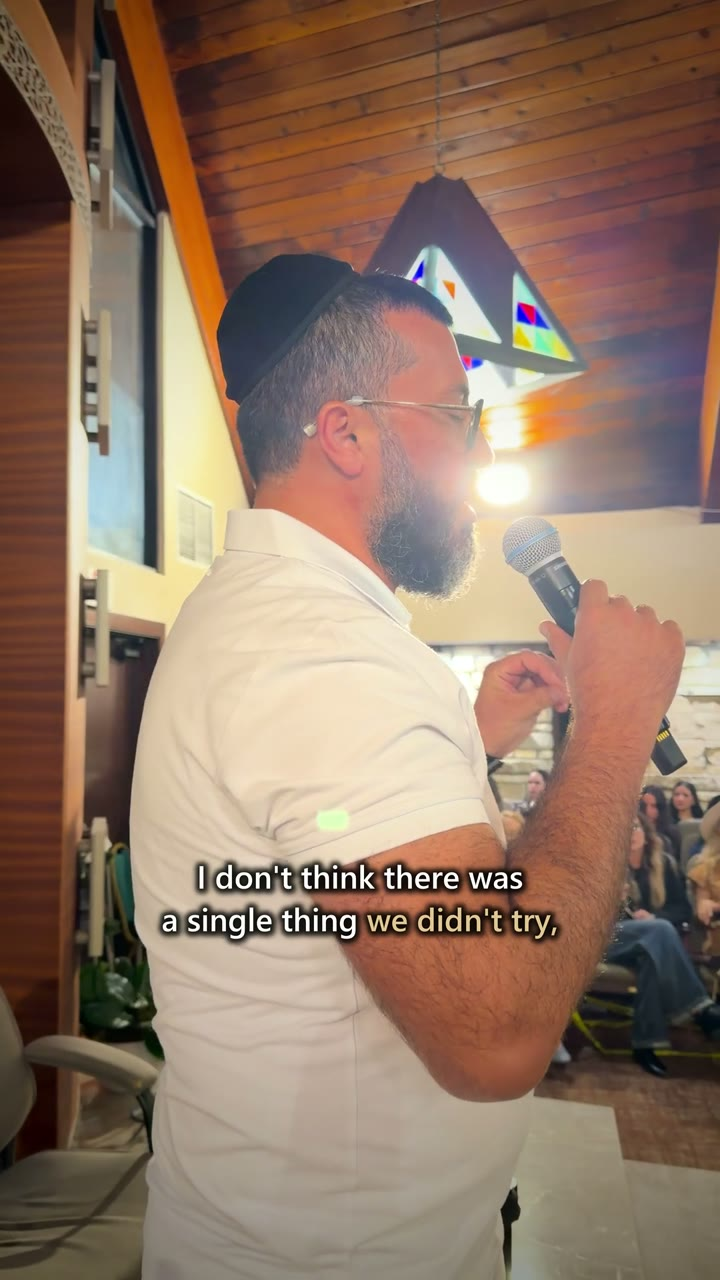
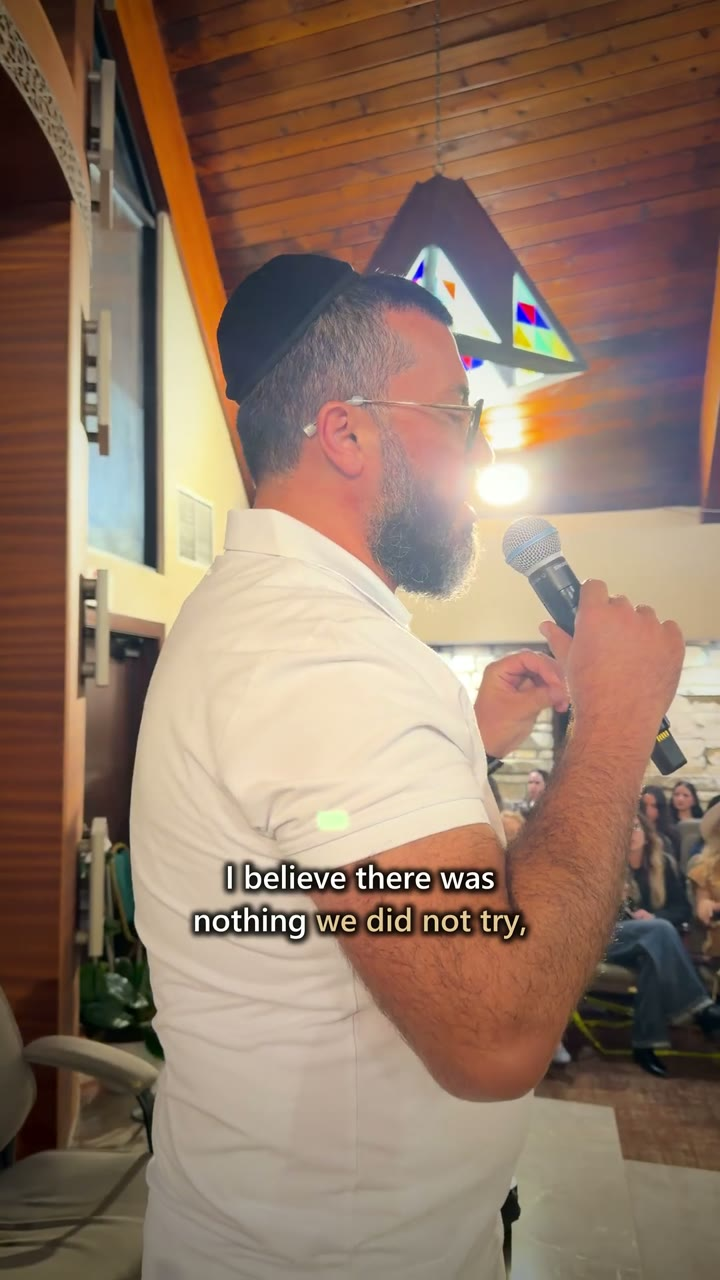
Add files via upload

Changed region(s): [[0.2139, 0.6562, 0.7944, 0.75]]

diff --git a/index.html b/index.html
@@ -29,6 +29,11 @@
   --on-argaman-soft:#efdfe5;
   --line-on-argaman:#b47a8e;
   --veil:rgba(255,255,255,.12);
+  --yt:#ff0000;
+  --fb:#0866ff;
+  --tt:#111111;
+  --wa:#25d366;
+  --tile-shadow:rgba(27,23,29,.14);
   --he-book:"Frank Ruhl Libre","David Libre","David","Times New Roman",serif;
   --he-note:"Miriam Libre","Frank Ruhl Libre","Arial Hebrew",Arial,sans-serif;
   --en-book:"EB Garamond","Frank Ruhl Libre","Iowan Old Style","Palatino Linotype",Palatino,Georgia,"Times New Roman",serif;
@@ -202,7 +207,7 @@ figcaption{padding-top:.65rem;text-align:center;text-wrap:balance}
 .colophon p[lang="he"]{font-family:var(--he-book);font-size:1.0625rem}
 
 /* Where the story was told: one quiet line at the head of the page, names only */
-.runhead .wrap{justify-content:space-between;align-items:baseline;flex-wrap:wrap;column-gap:1.25rem;row-gap:.25rem}
+.runhead .wrap{justify-content:flex-end;align-items:baseline;flex-wrap:wrap;column-gap:1.25rem;row-gap:.25rem}
 .seen{flex:1 1 16rem;min-width:0;display:flex;flex-wrap:wrap;align-items:baseline;gap:.1rem .9rem;color:var(--ink-soft);line-height:1.5}
 #he .seen{font-size:1rem}
 #en .seen{font-size:1.0625rem}
@@ -213,17 +218,35 @@ figcaption{padding-top:.65rem;text-align:center;text-wrap:balance}
 .sr{position:absolute;width:1px;height:1px;overflow:hidden;clip:rect(0 0 0 0);white-space:nowrap}
 .switch{flex:none}
 
-/* His channels, in the colophon after the invitation */
-.follow{padding-bottom:.25rem}
-.follow .label{color:var(--on-argaman-soft);margin-bottom:.85rem}
-.follow ul{display:flex;flex-wrap:wrap;justify-content:center;gap:.6rem .75rem}
-.follow li{min-width:0}
-.follow a{display:inline-flex;align-items:baseline;gap:.4rem;min-height:2.75rem;padding:.55rem .95rem;border:1px solid var(--line-on-argaman);color:var(--on-argaman);text-decoration:none;line-height:1.3}
-.follow a:hover{border-color:var(--on-argaman);background:var(--veil)}
-.f-net{font-weight:700}
-#en .f-net{font-weight:600}
-.f-name{color:var(--on-argaman-soft);font-size:.95em}
-.colophon hr.tick{border-color:var(--line-on-argaman);margin:1.4rem auto 1.1rem}
+/* בס״ד: always in the top right corner, in both languages, the way a letter or a sefer opens */
+.runhead .bsd-row{display:flex;justify-content:flex-end;padding-top:.55rem}
+#he .runhead .bsd-row{justify-content:flex-start}
+.bsd{text-align:right;color:var(--ink-soft);font-family:var(--he-book);font-size:1rem;font-weight:700;line-height:1;letter-spacing:.02em}
+.bsd-row + .wrap{padding-top:.2rem}
+
+/* His channels: four tiles, each with the network's own mark and colour, after the invitation */
+.follow-band{background:var(--paper)}
+.follow-band .wrap{padding-top:2.5rem;padding-bottom:2.75rem;text-align:center}
+.follow-band hr.dbl{max-width:42rem;margin:0 auto 1.6rem}
+.follow-band .label{margin-bottom:1.25rem}
+#he .follow-band .label{font-size:1.0625rem}
+#en .follow-band .label{font-size:.9375rem}
+.tiles{display:grid;grid-template-columns:repeat(2,minmax(0,1fr));gap:.75rem;max-width:42rem;margin-inline:auto}
+.tiles li{min-width:0;display:flex}
+.tile{flex:1;min-width:0;display:flex;flex-direction:column;align-items:center;gap:.4rem;padding:1.15rem .6rem 1.05rem;border:1px solid var(--rule);background:var(--paper);color:var(--ink);text-decoration:none;transition:transform .18s ease,box-shadow .18s ease,border-color .18s ease}
+.tile:hover{border-color:var(--argaman);box-shadow:0 10px 22px -12px var(--tile-shadow)}
+.ico{display:grid;place-items:center;width:3.6rem;height:3.6rem;border-radius:50%;margin-bottom:.2rem}
+.ico svg{display:block}
+.tile-youtube .ico{background:var(--yt)}
+.tile-facebook .ico{background:var(--fb)}
+.tile-tiktok .ico{background:var(--tt)}
+.tile-whatsapp .ico{background:var(--wa)}
+.f-net{font-weight:700;font-size:1.125rem;line-height:1.2}
+#en .f-net{font-weight:600;font-size:1.25rem}
+.f-name{color:var(--ink-soft);font-size:.95rem;line-height:1.3;overflow-wrap:anywhere}
+#en .f-name{font-size:1.0625rem}
+@media (min-width:40rem){ .tiles{grid-template-columns:repeat(4,minmax(0,1fr))} }
+@media (prefers-reduced-motion:no-preference){ .tile:hover{transform:translateY(-3px)} }
 
 @media (min-width:30rem){
   .shaar-body{padding:2.4rem 2rem 2.2rem}
@@ -276,8 +299,8 @@ figcaption{padding-top:.65rem;text-align:center;text-wrap:balance}
 <div id="en" lang="en" dir="ltr">
 
   <div class="runhead">
+    <div class="wrap bsd-row"><p class="bsd" lang="he" dir="rtl">בס״ד</p></div>
     <div class="wrap">
-      <p class="seen"><span class="label seen-label">As told on</span> <bdi class="seen-item">CBS News Miami</bdi><span class="sr"> · </span><bdi class="seen-item">Channel 14, Israel</bdi><span class="sr"> · </span><bdi class="seen-item">Channel 13, Israel</bdi><span class="sr"> · </span><bdi class="seen-item">Magen Avraham, Sunny Isles Beach</bdi></p>
       <a class="switch" href="#he" lang="he">עברית</a>
     </div>
   </div>
@@ -286,7 +309,7 @@ figcaption{padding-top:.65rem;text-align:center;text-wrap:balance}
     <div class="wrap spread spread-a">
       <div class="shaar">
         <div class="lintel">
-          <p class="motto">Mizmor l’todah. Shout for joy to Hashem, all the earth.</p>
+          <p class="motto">Mizmor l’todah, hari’u la’Hashem kol ha’aretz.</p>
           <p class="label ref">Tehillim 100:1</p>
         </div>
         <div class="shaar-body">
@@ -333,7 +356,7 @@ figcaption{padding-top:.65rem;text-align:center;text-wrap:balance}
     <div class="wrap spread spread-c">
       <blockquote class="gemara">
         <hr class="dbl" aria-hidden="true">
-        <p>Even if a sharp sword rests upon a person’s neck, he should not prevent himself from praying for mercy.</p>
+        <p>Afilu cherev chadah munachat al tzavaro shel adam, al yimna atzmo min harachamim.</p>
         <footer><cite class="label ref">Berakhot 10a</cite></footer>
       </blockquote>
       <figure class="plate">
@@ -375,7 +398,7 @@ figcaption{padding-top:.65rem;text-align:center;text-wrap:balance}
       </figure>
       <blockquote class="pasuk">
         <hr class="dbl" aria-hidden="true">
-        <p>For Hashem is good, His kindness is forever, and His faithfulness is for all generations.</p>
+        <p>Ki tov Hashem, l’olam chasdo, v’ad dor vador emunato.</p>
         <footer><cite class="label ref">Tehillim 100:5</cite></footer>
         <hr class="dbl flip" aria-hidden="true">
       </blockquote>
@@ -395,7 +418,7 @@ figcaption{padding-top:.65rem;text-align:center;text-wrap:balance}
           <button type="button" class="btn btn-ghost" data-copy="786-566-9477" data-tel="tel-en" data-done="Copied" id="copy-en">Copy the number</button>
         </div>
         <dl class="spec">
-          <div><dt class="label">Length</dt><dd>20 to 30 minutes</dd></div>
+          <div><dt class="label">Length</dt><dd>From a short d’var Torah to a full evening</dd></div>
           <div><dt class="label">Language</dt><dd>English or Hebrew</dd></div>
           <div><dt class="label">When</dt><dd>Melaveh malkah, a weeknight shiur, a Chanukah evening</dd></div>
         </dl>
@@ -403,18 +426,38 @@ figcaption{padding-top:.65rem;text-align:center;text-wrap:balance}
     </div>
   </section>
 
+
+  <nav class="follow-band" aria-labelledby="follow-en">
+    <div class="wrap">
+      <hr class="dbl" aria-hidden="true">
+      <h2 class="label" id="follow-en">Follow Lavi’s journey</h2>
+      <ul class="tiles">
+        <li><a class="tile tile-youtube" href="https://www.youtube.com/@LavisJourny" target="_blank" rel="noopener">
+          <span class="ico" aria-hidden="true"><svg viewBox="0 0 24 24" width="30" height="30" focusable="false"><path fill="#fff" d="M23.5 6.19a3.02 3.02 0 0 0-2.12-2.14C19.5 3.55 12 3.55 12 3.55s-7.5 0-9.38.5A3.02 3.02 0 0 0 .5 6.19C0 8.07 0 12 0 12s0 3.93.5 5.81a3.02 3.02 0 0 0 2.12 2.14c1.88.5 9.38.5 9.38.5s7.5 0 9.38-.5a3.02 3.02 0 0 0 2.12-2.14C24 15.93 24 12 24 12s0-3.93-.5-5.81Z"/><path fill="#ff0000" d="M9.55 15.57V8.43L15.82 12l-6.27 3.57Z"/></svg></span>
+          <bdi class="f-net">YouTube</bdi>
+          <bdi class="f-name">Lavi’s Journey</bdi>
+        </a></li>
+        <li><a class="tile tile-facebook" href="https://www.facebook.com/benzi.clubers" target="_blank" rel="noopener">
+          <span class="ico" aria-hidden="true"><svg viewBox="0 0 24 24" width="30" height="30" focusable="false"><path fill="#fff" d="M15.12 5.32H17V2.14A26.11 26.11 0 0 0 14.26 2c-2.72 0-4.58 1.66-4.58 4.7v2.62H6.61v3.56h3.07V22h3.68v-9.12h3.06l.46-3.56h-3.52V7.05c0-1.03.28-1.73 1.76-1.73Z"/></svg></span>
+          <bdi class="f-net">Facebook</bdi>
+          <bdi class="f-name">Benzi Cohen</bdi>
+        </a></li>
+        <li><a class="tile tile-tiktok" href="https://www.tiktok.com/@lavisjourney_dad" target="_blank" rel="noopener">
+          <span class="ico" aria-hidden="true"><svg viewBox="0 0 24 24" width="30" height="30" focusable="false"><path fill="#25f4ee" transform="translate(-0.9,-0.6)" d="M16.6 5.82a4.28 4.28 0 0 1-1.05-2.82h-3.09v12.4a2.59 2.59 0 0 1-2.59 2.5 2.6 2.6 0 0 1-2.6-2.6 2.6 2.6 0 0 1 3.37-2.48V9.66a5.69 5.69 0 0 0-.79-.05A5.72 5.72 0 0 0 4.13 15.3a5.72 5.72 0 0 0 5.72 5.73 5.72 5.72 0 0 0 5.72-5.73V9.01a7.35 7.35 0 0 0 4.3 1.38V7.3s-1.88.09-3.27-1.48Z"/><path fill="#fe2c55" transform="translate(0.9,0.6)" d="M16.6 5.82a4.28 4.28 0 0 1-1.05-2.82h-3.09v12.4a2.59 2.59 0 0 1-2.59 2.5 2.6 2.6 0 0 1-2.6-2.6 2.6 2.6 0 0 1 3.37-2.48V9.66a5.69 5.69 0 0 0-.79-.05A5.72 5.72 0 0 0 4.13 15.3a5.72 5.72 0 0 0 5.72 5.73 5.72 5.72 0 0 0 5.72-5.73V9.01a7.35 7.35 0 0 0 4.3 1.38V7.3s-1.88.09-3.27-1.48Z"/><path fill="#fff" d="M16.6 5.82a4.28 4.28 0 0 1-1.05-2.82h-3.09v12.4a2.59 2.59 0 0 1-2.59 2.5 2.6 2.6 0 0 1-2.6-2.6 2.6 2.6 0 0 1 3.37-2.48V9.66a5.69 5.69 0 0 0-.79-.05A5.72 5.72 0 0 0 4.13 15.3a5.72 5.72 0 0 0 5.72 5.73 5.72 5.72 0 0 0 5.72-5.73V9.01a7.35 7.35 0 0 0 4.3 1.38V7.3s-1.88.09-3.27-1.48Z"/></svg></span>
+          <bdi class="f-net">TikTok</bdi>
+          <bdi class="f-name">@lavisjourney_dad</bdi>
+        </a></li>
+        <li><a class="tile tile-whatsapp" href="https://chat.whatsapp.com/EO7k8VwijHz2f3fk7KikIK" target="_blank" rel="noopener">
+          <span class="ico" aria-hidden="true"><svg viewBox="0 0 24 24" width="30" height="30" focusable="false"><path fill="#fff" d="M12.04 2C6.58 2 2.13 6.45 2.13 11.91c0 1.75.46 3.45 1.32 4.95L2.05 22l5.25-1.38a9.87 9.87 0 0 0 4.74 1.21h.01c5.46 0 9.91-4.45 9.91-9.91A9.85 9.85 0 0 0 12.04 2Zm0 18.15h-.01a8.2 8.2 0 0 1-4.19-1.15l-.3-.18-3.12.82.83-3.04-.2-.31a8.2 8.2 0 0 1-1.26-4.38c0-4.54 3.7-8.24 8.25-8.24a8.2 8.2 0 0 1 8.24 8.25c0 4.54-3.7 8.23-8.24 8.23Zm4.52-6.16c-.25-.12-1.47-.72-1.69-.81-.23-.08-.39-.12-.56.13-.17.24-.64.81-.78.97-.14.17-.29.19-.54.06-.25-.12-1.05-.39-1.99-1.23-.74-.66-1.23-1.47-1.38-1.72-.14-.25-.02-.38.11-.51.11-.11.25-.29.37-.43.13-.15.17-.25.25-.42.08-.16.04-.31-.02-.43-.06-.12-.56-1.34-.76-1.84-.2-.48-.41-.42-.56-.43h-.48a.92.92 0 0 0-.66.31c-.23.25-.87.85-.87 2.07 0 1.22.89 2.4 1.01 2.56.12.17 1.75 2.67 4.23 3.74.59.26 1.05.41 1.41.52.59.19 1.13.16 1.56.1.48-.07 1.47-.6 1.67-1.18.21-.58.21-1.07.14-1.18-.06-.1-.22-.16-.47-.29Z"/></svg></span>
+          <bdi class="f-net">WhatsApp</bdi>
+          <bdi class="f-name">Tehillim and updates</bdi>
+        </a></li>
+      </ul>
+    </div>
+  </nav>
+
   <footer class="colophon">
     <div class="wrap">
-      <nav class="follow" aria-labelledby="follow-en">
-        <h2 class="label" id="follow-en">Follow Lavi’s journey</h2>
-        <ul>
-          <li><a href="https://www.youtube.com/@LavisJourny" target="_blank" rel="noopener"><bdi class="f-net">YouTube</bdi> <bdi class="f-name">Lavi’s Journey</bdi></a></li>
-          <li><a href="https://www.facebook.com/benzi.clubers" target="_blank" rel="noopener"><bdi class="f-net">Facebook</bdi> <bdi class="f-name">Benzi Cohen</bdi></a></li>
-          <li><a href="https://www.tiktok.com/@lavisjourney_dad" target="_blank" rel="noopener"><bdi class="f-net">TikTok</bdi> <bdi class="f-name">@lavisjourney_dad</bdi></a></li>
-          <li><a href="https://chat.whatsapp.com/EO7k8VwijHz2f3fk7KikIK" target="_blank" rel="noopener"><bdi class="f-net">WhatsApp</bdi> <bdi class="f-name">Tehillim and updates</bdi></a></li>
-        </ul>
-      </nav>
-      <hr class="tick" aria-hidden="true">
       <p>L’refuah sheleimah: Lavi Refael ben Olga</p>
       <p lang="he" dir="rtl">לרפואה שלמה: לביא רפאל בן אולגה</p>
     </div>
@@ -425,8 +468,8 @@ figcaption{padding-top:.65rem;text-align:center;text-wrap:balance}
 <div id="he" lang="he" dir="rtl" hidden>
 
   <div class="runhead">
+    <div class="wrap bsd-row"><p class="bsd" lang="he" dir="rtl">בס״ד</p></div>
     <div class="wrap">
-      <p class="seen"><span class="label seen-label">הסיפור סופר ב-</span> <bdi class="seen-item">CBS News Miami</bdi><span class="sr"> · </span><bdi class="seen-item">ערוץ 14</bdi><span class="sr"> · </span><bdi class="seen-item">ערוץ 13</bdi><span class="sr"> · </span><bdi class="seen-item">בית הכנסת מגן אברהם</bdi></p>
       <a class="switch" href="#en" lang="en">English</a>
     </div>
   </div>
@@ -544,7 +587,7 @@ figcaption{padding-top:.65rem;text-align:center;text-wrap:balance}
           <button type="button" class="btn btn-ghost" data-copy="786-566-9477" data-tel="tel-he" data-done="הועתק" id="copy-he">העתקת המספר</button>
         </div>
         <dl class="spec">
-          <div><dt class="label">אורך</dt><dd>20 עד 30 דקות</dd></div>
+          <div><dt class="label">אורך</dt><dd>מדבר תורה קצר ועד ערב שלם</dd></div>
           <div><dt class="label">שפה</dt><dd>עברית או אנגלית</dd></div>
           <div><dt class="label">מתי</dt><dd>מלווה מלכה, שיעור באמצע השבוע, ערב בחנוכה</dd></div>
         </dl>
@@ -552,18 +595,38 @@ figcaption{padding-top:.65rem;text-align:center;text-wrap:balance}
     </div>
   </section>
 
+
+  <nav class="follow-band" aria-labelledby="follow-he">
+    <div class="wrap">
+      <hr class="dbl" aria-hidden="true">
+      <h2 class="label" id="follow-he">עקבו אחרי המסע של לביא</h2>
+      <ul class="tiles">
+        <li><a class="tile tile-youtube" href="https://www.youtube.com/@LavisJourny" target="_blank" rel="noopener">
+          <span class="ico" aria-hidden="true"><svg viewBox="0 0 24 24" width="30" height="30" focusable="false"><path fill="#fff" d="M23.5 6.19a3.02 3.02 0 0 0-2.12-2.14C19.5 3.55 12 3.55 12 3.55s-7.5 0-9.38.5A3.02 3.02 0 0 0 .5 6.19C0 8.07 0 12 0 12s0 3.93.5 5.81a3.02 3.02 0 0 0 2.12 2.14c1.88.5 9.38.5 9.38.5s7.5 0 9.38-.5a3.02 3.02 0 0 0 2.12-2.14C24 15.93 24 12 24 12s0-3.93-.5-5.81Z"/><path fill="#ff0000" d="M9.55 15.57V8.43L15.82 12l-6.27 3.57Z"/></svg></span>
+          <bdi class="f-net">יוטיוב</bdi>
+          <bdi class="f-name">המסע של לביא רפאל</bdi>
+        </a></li>
+        <li><a class="tile tile-facebook" href="https://www.facebook.com/benzi.clubers" target="_blank" rel="noopener">
+          <span class="ico" aria-hidden="true"><svg viewBox="0 0 24 24" width="30" height="30" focusable="false"><path fill="#fff" d="M15.12 5.32H17V2.14A26.11 26.11 0 0 0 14.26 2c-2.72 0-4.58 1.66-4.58 4.7v2.62H6.61v3.56h3.07V22h3.68v-9.12h3.06l.46-3.56h-3.52V7.05c0-1.03.28-1.73 1.76-1.73Z"/></svg></span>
+          <bdi class="f-net">פייסבוק</bdi>
+          <bdi class="f-name">בנצי כהן</bdi>
+        </a></li>
+        <li><a class="tile tile-tiktok" href="https://www.tiktok.com/@lavisjourney_dad" target="_blank" rel="noopener">
+          <span class="ico" aria-hidden="true"><svg viewBox="0 0 24 24" width="30" height="30" focusable="false"><path fill="#25f4ee" transform="translate(-0.9,-0.6)" d="M16.6 5.82a4.28 4.28 0 0 1-1.05-2.82h-3.09v12.4a2.59 2.59 0 0 1-2.59 2.5 2.6 2.6 0 0 1-2.6-2.6 2.6 2.6 0 0 1 3.37-2.48V9.66a5.69 5.69 0 0 0-.79-.05A5.72 5.72 0 0 0 4.13 15.3a5.72 5.72 0 0 0 5.72 5.73 5.72 5.72 0 0 0 5.72-5.73V9.01a7.35 7.35 0 0 0 4.3 1.38V7.3s-1.88.09-3.27-1.48Z"/><path fill="#fe2c55" transform="translate(0.9,0.6)" d="M16.6 5.82a4.28 4.28 0 0 1-1.05-2.82h-3.09v12.4a2.59 2.59 0 0 1-2.59 2.5 2.6 2.6 0 0 1-2.6-2.6 2.6 2.6 0 0 1 3.37-2.48V9.66a5.69 5.69 0 0 0-.79-.05A5.72 5.72 0 0 0 4.13 15.3a5.72 5.72 0 0 0 5.72 5.73 5.72 5.72 0 0 0 5.72-5.73V9.01a7.35 7.35 0 0 0 4.3 1.38V7.3s-1.88.09-3.27-1.48Z"/><path fill="#fff" d="M16.6 5.82a4.28 4.28 0 0 1-1.05-2.82h-3.09v12.4a2.59 2.59 0 0 1-2.59 2.5 2.6 2.6 0 0 1-2.6-2.6 2.6 2.6 0 0 1 3.37-2.48V9.66a5.69 5.69 0 0 0-.79-.05A5.72 5.72 0 0 0 4.13 15.3a5.72 5.72 0 0 0 5.72 5.73 5.72 5.72 0 0 0 5.72-5.73V9.01a7.35 7.35 0 0 0 4.3 1.38V7.3s-1.88.09-3.27-1.48Z"/></svg></span>
+          <bdi class="f-net">טיקטוק</bdi>
+          <bdi class="f-name">@lavisjourney_dad</bdi>
+        </a></li>
+        <li><a class="tile tile-whatsapp" href="https://chat.whatsapp.com/EO7k8VwijHz2f3fk7KikIK" target="_blank" rel="noopener">
+          <span class="ico" aria-hidden="true"><svg viewBox="0 0 24 24" width="30" height="30" focusable="false"><path fill="#fff" d="M12.04 2C6.58 2 2.13 6.45 2.13 11.91c0 1.75.46 3.45 1.32 4.95L2.05 22l5.25-1.38a9.87 9.87 0 0 0 4.74 1.21h.01c5.46 0 9.91-4.45 9.91-9.91A9.85 9.85 0 0 0 12.04 2Zm0 18.15h-.01a8.2 8.2 0 0 1-4.19-1.15l-.3-.18-3.12.82.83-3.04-.2-.31a8.2 8.2 0 0 1-1.26-4.38c0-4.54 3.7-8.24 8.25-8.24a8.2 8.2 0 0 1 8.24 8.25c0 4.54-3.7 8.23-8.24 8.23Zm4.52-6.16c-.25-.12-1.47-.72-1.69-.81-.23-.08-.39-.12-.56.13-.17.24-.64.81-.78.97-.14.17-.29.19-.54.06-.25-.12-1.05-.39-1.99-1.23-.74-.66-1.23-1.47-1.38-1.72-.14-.25-.02-.38.11-.51.11-.11.25-.29.37-.43.13-.15.17-.25.25-.42.08-.16.04-.31-.02-.43-.06-.12-.56-1.34-.76-1.84-.2-.48-.41-.42-.56-.43h-.48a.92.92 0 0 0-.66.31c-.23.25-.87.85-.87 2.07 0 1.22.89 2.4 1.01 2.56.12.17 1.75 2.67 4.23 3.74.59.26 1.05.41 1.41.52.59.19 1.13.16 1.56.1.48-.07 1.47-.6 1.67-1.18.21-.58.21-1.07.14-1.18-.06-.1-.22-.16-.47-.29Z"/></svg></span>
+          <bdi class="f-net">וואטסאפ</bdi>
+          <bdi class="f-name">קבוצת תהילים ועדכונים</bdi>
+        </a></li>
+      </ul>
+    </div>
+  </nav>
+
   <footer class="colophon">
     <div class="wrap">
-      <nav class="follow" aria-labelledby="follow-he">
-        <h2 class="label" id="follow-he">עקבו אחרי המסע של לביא</h2>
-        <ul>
-          <li><a href="https://www.youtube.com/@LavisJourny" target="_blank" rel="noopener"><bdi class="f-net">יוטיוב</bdi> <bdi class="f-name">המסע של לביא רפאל</bdi></a></li>
-          <li><a href="https://www.facebook.com/benzi.clubers" target="_blank" rel="noopener"><bdi class="f-net">פייסבוק</bdi> <bdi class="f-name">בנצי כהן</bdi></a></li>
-          <li><a href="https://www.tiktok.com/@lavisjourney_dad" target="_blank" rel="noopener"><bdi class="f-net">טיקטוק</bdi> <bdi class="f-name">@lavisjourney_dad</bdi></a></li>
-          <li><a href="https://chat.whatsapp.com/EO7k8VwijHz2f3fk7KikIK" target="_blank" rel="noopener"><bdi class="f-net">וואטסאפ</bdi> <bdi class="f-name">קבוצת תהילים ועדכונים</bdi></a></li>
-        </ul>
-      </nav>
-      <hr class="tick" aria-hidden="true">
       <p>לרפואה שלמה: לביא רפאל בן אולגה</p>
     </div>
   </footer>
